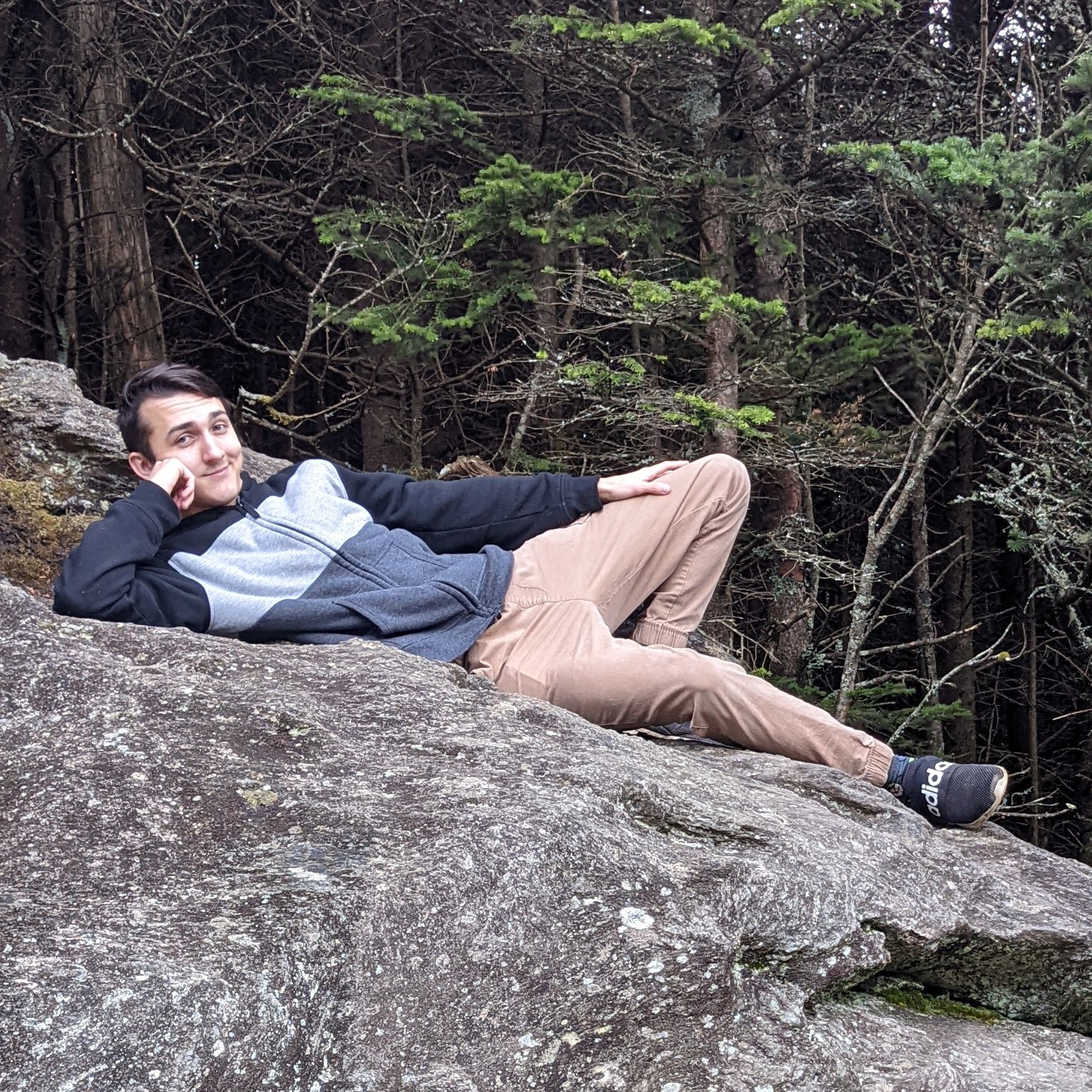
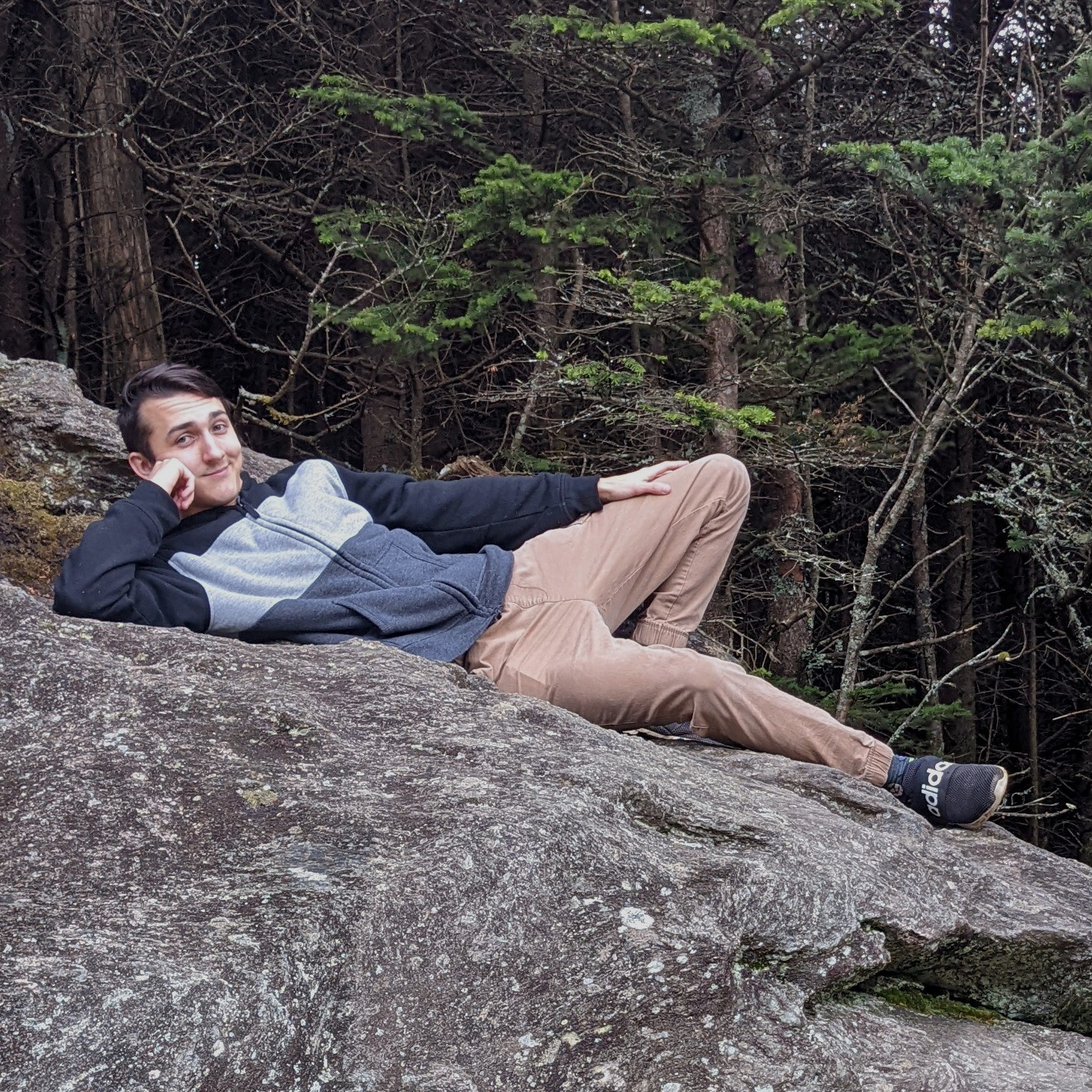
more updates on About section

diff --git a/src/pages/index.js b/src/pages/index.js
@@ -25,7 +25,7 @@ class IndexPage extends React.Component {
   constructor(props) {
     super(props);
 
-    this.state = {active: 'home', showNav: false};
+    this.state = {active: 'home', showNav: false, windowX: `${window.innerWidth}`};
 
     this.refNav = React.createRef();
     this.refHome = React.createRef();
@@ -61,7 +61,7 @@ class IndexPage extends React.Component {
 
   navHandleBtn = (section) => {
     let y = 20;
-    if (!isMobile) {y = this.refNav.current.getBoundingClientRect().height};
+    if (!isMobile) {y = this.refNav.current.getBoundingClientRect().height + y};
     window.scrollTo(0, section.current.offsetTop - y);
   }
 
@@ -95,16 +95,16 @@ class IndexPage extends React.Component {
           <h2>Front-End Web Developer</h2>
         </section>
 
-        <section id='about' ref={this.refAbout} data-aos='section-slide-in' data-aos-duration='1500' data-aos-offset='100' data-aos-once='true'>
+        <section id='about' ref={this.refAbout} data-aos='section-slide-in' data-aos-duration='1000' data-aos-offset='200' data-aos-once='true'>
           <h1 className='title'>About</h1>
           <div className='infoBox'>
             <p>Hello! I'm <span className='highlight'>Joshua</span>, and I enjoy designing & creating through various outlets. My interest in creative & technical processes started at a young age, when I had nothing to do and an interest in how 'things' worked.</p>
-            <p>Fast-forward to today, and my endeavours have led me on a journey of engieering and coding. </p>
+            <p>Fast-forward to today, and my endeavours have led me on a journey of engieering and coding. Initially wishing to pursue a career in Mechanical Engineering, then switching to Front-End, I've learned a lot and will continue to learn and improve.</p>
           </div>
           <div className='img'>
             <StaticImage
               className='imgFile'
-              src="../images/joshua-2.jpg"
+              src="../images/joshua-1.jpg"
               alt="Joshua Messer"
               placeholder="blurred"
               layout="fixed"
@@ -113,10 +113,23 @@ class IndexPage extends React.Component {
             />
             <span className='outline'></span>
           </div>
+          <div className="infoBox second">
+            <p>Here are some technologies I've been using recently:</p>
+            <ul>
+              <li>Javascript (ES6+)</li>
+              <li>React</li>
+              <li>Python</li>
+              <li>node.js</li>
+              <li>Gatsby</li>
+            </ul>
+          </div>
         </section>
 
-        <section id='projects' ref={this.refProjects} data-aos='section-slide-in' data-aos-duration='1500' data-aos-offset='100' data-aos-once='true'>
+        <section id='projects' ref={this.refProjects} data-aos='section-slide-in' data-aos-duration='1000' data-aos-offset='200' data-aos-once='true'>
         <h1 className='title'>Projects</h1>
+        <div className='infoBox'>
+          <p style={{textAlign: 'center'}}>Currently Empty<br/>Visit again at a later date!</p>
+        </div>
         </section>
 
         <section id='contact' ref={this.refContact}>

diff --git a/src/styles/portfolio.scss b/src/styles/portfolio.scss
@@ -127,6 +127,7 @@
 
 section {
   width: 90%;
+  max-width: 90em;
   margin: 5em auto;
   padding: 1em 2em;
   padding-bottom: 3em;
@@ -293,11 +294,14 @@ section .title::after {
   list-style-type: none;
   display: flex;
   flex-direction: row;
+  align-items: center;
+  justify-content: center;
+  flex-wrap: wrap;
   font-size: 2rem;
 }
 
 #contact .external-accounts .account a {
-  margin: 0 1em;
+  margin: 0 0.5em;
   padding: 0.1em;
   display: block;
   color: $light-grey;
@@ -316,7 +320,13 @@ section .title::after {
   display: grid;
   grid-auto-flow: row;
   grid-row-gap: 2em;
-  max-width: 40em;
+  padding: 0.75em;
+  max-width: 35em;
+  text-align: center;
+}
+
+#about .img {
+  margin: 2rem;
 }
 
 #about .img .imgFile {
@@ -354,6 +364,28 @@ section .title::after {
 
 #about .img:hover .outline {
   transform: translate(5%, -95%);
+}
+
+#about .infoBox.second {
+  display: flex;
+  flex-direction: column;
+  justify-content: center;
+  align-items: center;
+  margin-top: 3em;
+}
+
+#about .infoBox.second ul {
+  list-style-type: none;
+  display: grid;
+  grid-template-columns: repeat(auto-fit, minmax(15em, 50%));
+  max-width: 100%;
+  place-items: center left;
+}
+
+#about .infoBox.second ul li::before {
+  content: '\25B8';
+  margin-right: 0.75em;
+  color: $primary;
 }
 
 /// -------------------------------------------------- ///
